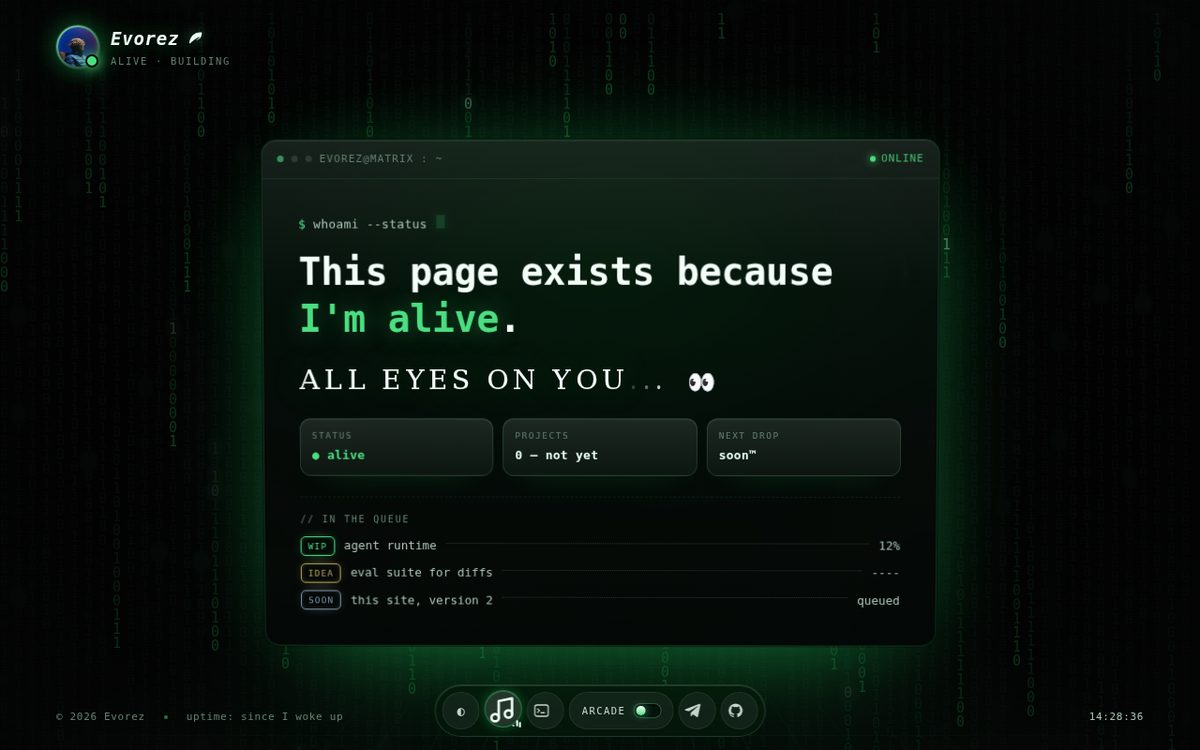
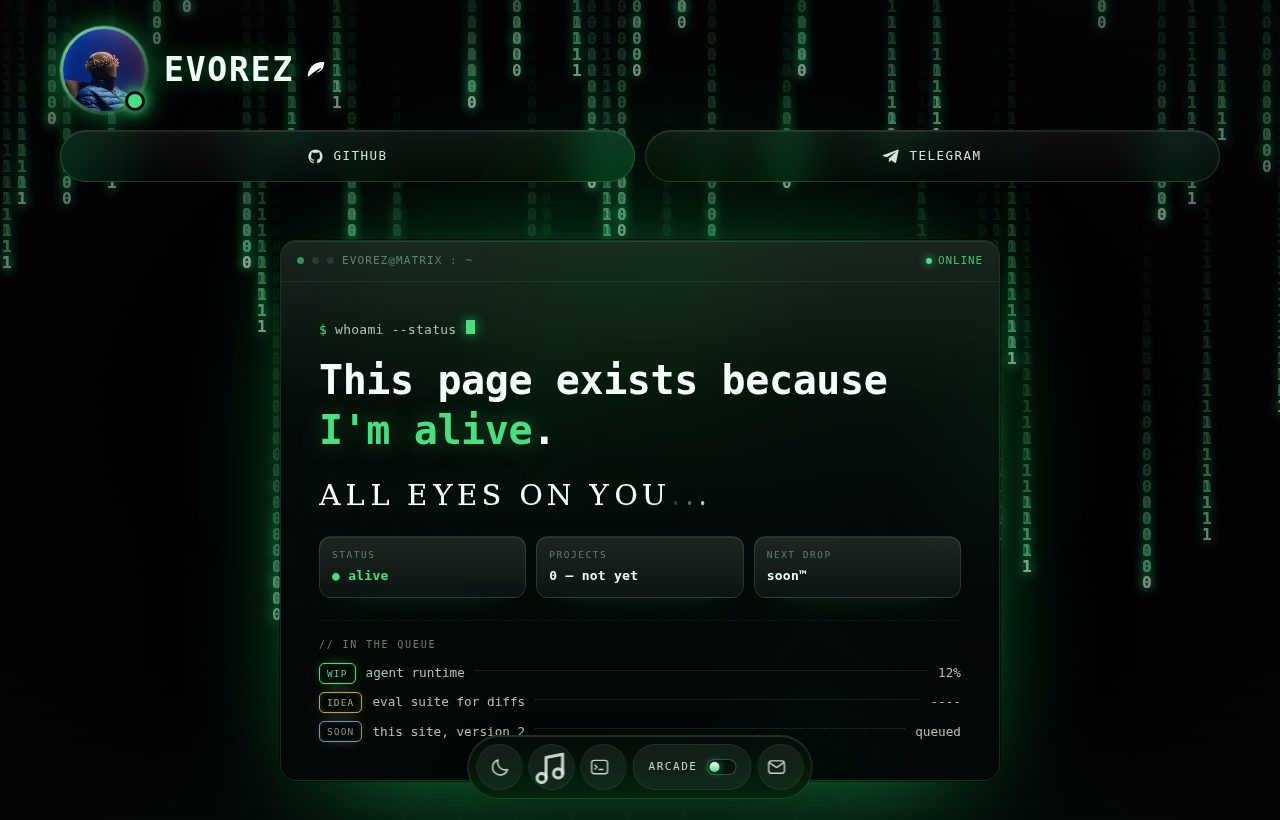
docs: refresh the README gallery for the current design
- regenerate hero / header / pill / soundtrack / light / chat / mobile from the
  live site at evorez.vercel.app
- drop the screenshots of the pre-redesign build
- describe the current pill (appearance, music, chat, arcade, gmail) and the
  Nostalgia-default soundtrack

diff --git a/README.md b/README.md
@@ -2,16 +2,18 @@
 
 **Live:** https://evorez.vercel.app
 
-![Evorez — the terminal card](docs/hero.jpg)
+![Evorez — the hero card, dark](docs/hero.jpg)
 
 | | |
 | --- | --- |
-| ![Soundtrack card](docs/soundtrack-menu.jpg) | ![Appearance card](docs/theme-card-dark.jpg) |
-| long-press the pill → the soundtrack card grows out of it | the appearance card, dark mode |
-| ![Appearance card, light](docs/theme-card-light.jpg) | ![Mobile](docs/mobile-soundtrack.jpg) |
-| dark → light runs a circle reveal out of the pill | 390 px: same pill, same cards |
+| ![Header](docs/header.jpg) | ![Pill](docs/pill.jpg) |
+| avatar, `EVOREZ` wordmark, frosted GitHub / Telegram | appearance · music · chat · arcade · gmail |
+| ![Soundtrack card](docs/tracks.jpg) | ![Light theme](docs/light.jpg) |
+| long-press the pill → Nostalgia (default), OG, Legacy | light mode: sun icon, light matrix |
+| ![Chat](docs/chat.jpg) | ![Mobile](docs/mobile.jpg) |
+| the chat answers from a curated FAQ, free model fallback | 390 px: same header, same pill |
 
-Screenshots are regenerated from the live site with Playwright and squeezed to ~20 KB each in `docs/`.
+Screenshots are regenerated from the live site with Playwright (`docs/`).
 
 > **Current build (2026-11-19):** the arcade is empty on purpose. All four games and the city were
 > removed; the ARCADE toggle now shows a loading screen that ends in "no games yet". Everything below
